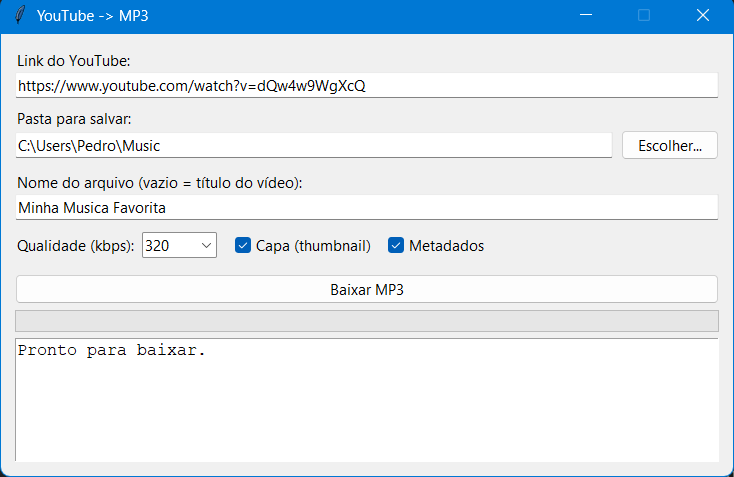
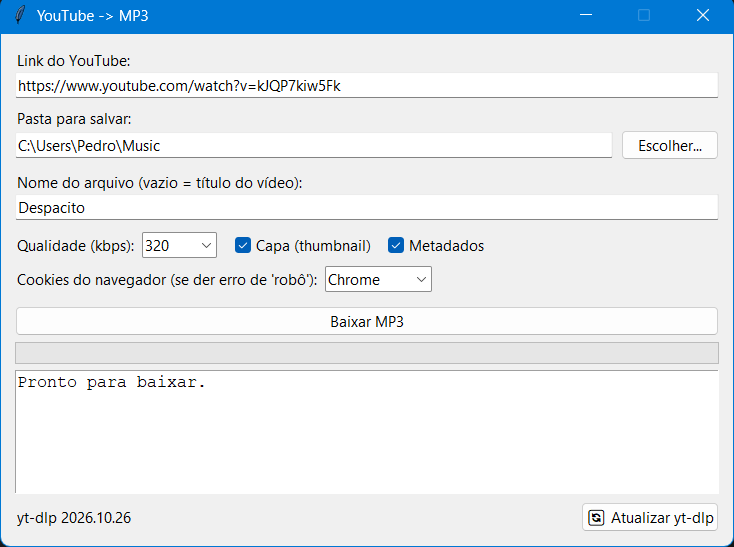
Atualiza baixador: cookies do navegador, botao de atualizar yt-dlp, clientes de fallback e mensagens de erro claras

diff --git a/baixar_mp3.py b/baixar_mp3.py
@@ -18,6 +18,7 @@ import shutil
 import tempfile
 import threading
 import queue
+import subprocess
 import tkinter as tk
 from tkinter import ttk, filedialog, messagebox
 
@@ -83,7 +84,8 @@ class Downloader:
             self.log_queue.put(("log", "Download concluído. Convertendo para MP3..."))
             self.log_queue.put(("progress", 100))
 
-    def baixar(self, url, pasta, nome, bitrate, embed_thumb, embed_meta):
+    def baixar(self, url, pasta, nome, bitrate, embed_thumb, embed_meta,
+               cookies_browser=None):
         # Define o template do nome do arquivo de saída
         if nome and nome.strip():
             # Remove caracteres inválidos para nome de arquivo no Windows
@@ -119,16 +121,54 @@ class Downloader:
             "continuedl": True,
             # Mantém o arquivo limpo, sem sobrescrever silenciosamente
             "overwrites": False,
+            # Múltiplos "clientes" do YouTube: se um falhar (mudança do site
+            # ou bloqueio), o yt-dlp tenta outro automaticamente.
+            "extractor_args": {
+                "youtube": {"player_client": ["default", "web_safari", "tv", "ios"]}
+            },
         }
 
         # Aponta para o ffmpeg embutido, se disponível
         if FFMPEG_DIR:
             ydl_opts["ffmpeg_location"] = FFMPEG_DIR
 
-        with yt_dlp.YoutubeDL(ydl_opts) as ydl:
-            info = ydl.extract_info(url, download=True)
-            titulo = info.get("title", "arquivo")
-            return titulo
+        # Usa os cookies do navegador para driblar o "confirme que não é um robô"
+        if cookies_browser and cookies_browser.lower() != "nenhum":
+            ydl_opts["cookiesfrombrowser"] = (cookies_browser.lower(),)
+
+        try:
+            with yt_dlp.YoutubeDL(ydl_opts) as ydl:
+                info = ydl.extract_info(url, download=True)
+                return info.get("title", "arquivo")
+        except Exception as e:
+            raise RuntimeError(self._traduzir_erro(str(e)))
+
+    @staticmethod
+    def _traduzir_erro(msg):
+        """Transforma o erro técnico do yt-dlp em algo compreensível."""
+        baixo = msg.lower()
+        if "not a bot" in baixo or "sign in to confirm" in baixo:
+            return ("O YouTube pediu verificação de 'não sou um robô'.\n\n"
+                    "Solução: no campo 'Cookies do navegador', escolha o navegador "
+                    "onde você está logado no YouTube (ex.: Chrome ou Edge) e tente "
+                    "de novo.")
+        if "private video" in baixo:
+            return "Esse vídeo é privado — não é possível baixar."
+        if "video unavailable" in baixo or "removed" in baixo:
+            return "Vídeo indisponível (pode ter sido removido ou é restrito na sua região)."
+        if "age" in baixo and "restrict" in baixo:
+            return ("Vídeo com restrição de idade. Use a opção 'Cookies do navegador' "
+                    "com uma conta logada e maior de idade.")
+        if "requested format is not available" in baixo:
+            return "Formato de áudio indisponível para esse vídeo. Tente outro link."
+        if "unable to download" in baixo and "player" in baixo:
+            return ("Falha ao ler o vídeo — o yt-dlp pode estar desatualizado.\n\n"
+                    "Clique em 'Atualizar yt-dlp' e reabra o programa.")
+        if "ffmpeg" in baixo or "ffprobe" in baixo:
+            return "ffmpeg não encontrado. Rode: pip install imageio-ffmpeg"
+        # Mensagem genérica, já limpa do prefixo "ERROR:"
+        limpa = msg.replace("ERROR:", "").strip()
+        return limpa or "Falha desconhecida no download."
 
 
 # ---------------------------------------------------------------------------
@@ -138,7 +178,7 @@ class App(tk.Tk):
     def __init__(self):
         super().__init__()
         self.title("YouTube -> MP3")
-        self.geometry("620x430")
+        self.geometry("620x510")
         self.resizable(False, False)
 
         self.log_queue = queue.Queue()
@@ -202,17 +242,40 @@ class App(tk.Tk):
         self.meta_var = tk.BooleanVar(value=True)
         ttk.Checkbutton(opt, text="Metadados", variable=self.meta_var).pack(side="left")
 
+        # Cookies do navegador (resolve o erro "confirme que não é um robô")
+        cook = ttk.Frame(frame)
+        cook.grid(row=7, column=0, columnspan=3, sticky="we", pady=(4, 2))
+        ttk.Label(cook, text="Cookies do navegador (se der erro de 'robô'):").pack(
+            side="left")
+        self.cookies_var = tk.StringVar(value="Nenhum")
+        ttk.Combobox(
+            cook,
+            textvariable=self.cookies_var,
+            values=["Nenhum", "Chrome", "Edge", "Firefox", "Brave", "Opera", "Vivaldi"],
+            width=10,
+            state="readonly",
+        ).pack(side="left", padx=(6, 0))
+
         # Botão baixar
         self.btn = ttk.Button(frame, text="Baixar MP3", command=self._iniciar)
-        self.btn.grid(row=7, column=0, columnspan=3, sticky="we", pady=(12, 6))
+        self.btn.grid(row=8, column=0, columnspan=3, sticky="we", pady=(12, 6))
 
         # Barra de progresso
         self.progress = ttk.Progressbar(frame, mode="determinate", maximum=100)
-        self.progress.grid(row=8, column=0, columnspan=3, sticky="we", pady=(0, 6))
+        self.progress.grid(row=9, column=0, columnspan=3, sticky="we", pady=(0, 6))
 
         # Log
         self.log = tk.Text(frame, height=6, width=70, state="disabled", wrap="word")
-        self.log.grid(row=9, column=0, columnspan=3, sticky="we")
+        self.log.grid(row=10, column=0, columnspan=3, sticky="we")
+
+        # Rodapé: versão do yt-dlp + botão de atualizar
+        rodape = ttk.Frame(frame)
+        rodape.grid(row=11, column=0, columnspan=3, sticky="we", pady=(8, 0))
+        self.versao_lbl = ttk.Label(rodape, text=self._texto_versao())
+        self.versao_lbl.pack(side="left")
+        self.btn_update = ttk.Button(rodape, text="🔄 Atualizar yt-dlp",
+                                     command=self._atualizar_ytdlp)
+        self.btn_update.pack(side="right")
 
         frame.columnconfigure(0, weight=1)
         frame.columnconfigure(1, weight=1)
@@ -221,6 +284,33 @@ class App(tk.Tk):
             self._log(
                 "AVISO: ffmpeg não encontrado. Instale com: pip install imageio-ffmpeg"
             )
+
+    def _texto_versao(self):
+        return f"yt-dlp {getattr(yt_dlp.version, '__version__', '?')}"
+
+    def _atualizar_ytdlp(self):
+        """Atualiza o yt-dlp via pip e avisa para reabrir o programa."""
+        if self.baixando:
+            return
+        self.btn_update.configure(state="disabled", text="Atualizando...")
+        self._log("Atualizando yt-dlp... aguarde.")
+
+        def tarefa():
+            try:
+                flags = subprocess.CREATE_NO_WINDOW if os.name == "nt" else 0
+                r = subprocess.run(
+                    [sys.executable, "-m", "pip", "install", "--upgrade",
+                     "yt-dlp", "imageio-ffmpeg"],
+                    stdout=subprocess.PIPE, stderr=subprocess.STDOUT,
+                    universal_newlines=True, encoding="utf-8", errors="ignore",
+                    creationflags=flags,
+                )
+                ok = r.returncode == 0
+                self.log_queue.put(("update_done", ok))
+            except Exception as e:
+                self.log_queue.put(("update_done", False))
+
+        threading.Thread(target=tarefa, daemon=True).start()
 
     def _escolher_pasta(self):
         pasta = filedialog.askdirectory(initialdir=self.pasta_var.get() or "/")
@@ -261,14 +351,16 @@ class App(tk.Tk):
                 self.bitrate_var.get(),
                 self.thumb_var.get(),
                 self.meta_var.get(),
+                self.cookies_var.get(),
             ),
             daemon=True,
         )
         t.start()
 
-    def _worker(self, url, pasta, nome, bitrate, thumb, meta):
+    def _worker(self, url, pasta, nome, bitrate, thumb, meta, cookies):
         try:
-            titulo = self.downloader.baixar(url, pasta, nome, bitrate, thumb, meta)
+            titulo = self.downloader.baixar(
+                url, pasta, nome, bitrate, thumb, meta, cookies)
             self.log_queue.put(("done", titulo))
         except Exception as e:
             self.log_queue.put(("error", str(e)))
@@ -293,6 +385,21 @@ class App(tk.Tk):
                     self._log(f"❌ Erro: {dado}")
                     messagebox.showerror("Erro", dado)
                     self._resetar()
+                elif tipo == "update_done":
+                    self.btn_update.configure(state="normal",
+                                              text="🔄 Atualizar yt-dlp")
+                    if dado:
+                        self._log("✅ yt-dlp atualizado. FECHE e reabra o programa "
+                                  "para aplicar.")
+                        messagebox.showinfo(
+                            "Atualizado",
+                            "yt-dlp atualizado com sucesso!\n\n"
+                            "Feche e abra o programa de novo para usar a versão nova.")
+                    else:
+                        self._log("❌ Não foi possível atualizar o yt-dlp.")
+                        messagebox.showerror(
+                            "Erro",
+                            "Falha ao atualizar. Verifique sua conexão com a internet.")
         except queue.Empty:
             pass
         self.after(100, self._processar_fila)

diff --git a/README.md b/README.md
@@ -31,6 +31,8 @@ O **ffmpeg vem embutido** via `imageio-ffmpeg` — não é necessário instalar 
 - **Capa (thumbnail)** e **metadados** embutidos no MP3
 - Barra de progresso e log em tempo real
 - Refaz partes que falharem no download (evita áudio cortado/corrompido)
+- **Botão "Atualizar yt-dlp"** — mantém o download funcionando quando o YouTube muda
+- Opção de **cookies do navegador** — resolve o erro "confirme que você não é um robô"
 
 ### Conversor MP3 (`conversor_mp3.py`)
 - Interface escura moderna
@@ -82,6 +84,21 @@ python conversor_mp3.py   # conversor de arquivos locais
 | `requirements.txt` | Dependências do projeto |
 | `Abrir.bat` | Atalho para o baixador (Windows) |
 | `Conversor.bat` | Atalho para o conversor (Windows) |
+
+---
+
+## 🛠 Não está baixando? (solução de problemas)
+
+O YouTube muda com frequência e, quando isso acontece, o download pode parar até o `yt-dlp` ser atualizado.
+
+1. **Atualize o yt-dlp.** Clique no botão **🔄 Atualizar yt-dlp** (canto inferior da janela) e, ao terminar, **feche e reabra** o programa. Ou rode no terminal:
+   ```bash
+   python -m pip install --upgrade yt-dlp
+   ```
+2. **Erro "confirme que você não é um robô" / "Sign in to confirm you're not a bot":** no campo **"Cookies do navegador"**, escolha o navegador onde você está logado no YouTube (ex.: Chrome ou Edge) e baixe de novo.
+3. **"Vídeo indisponível / privado":** o vídeo pode ter sido removido, ser privado ou ter bloqueio na sua região — tente outro link.
+
+> Dica: o `Abrir.bat` já tenta atualizar o `yt-dlp` sempre que você abre o programa.
 
 ---
 
